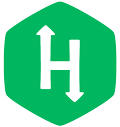
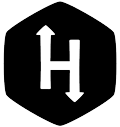
Add all images and shrink

diff --git a/index.html b/index.html
@@ -16,112 +16,33 @@
   </head>
 
   <body>
-    <div class="container" id="home">
-      <nav class="navbar navbar-fixed-top center" role="navigation">
-        <div class="container">
-          <div id="navbar">
-            <ul class="nav navbar-nav">
-              <li><a href="#" data-target="#about">About</a></li>
-              <li><a href="#" data-target="#works">Works</a></li>
-              <li><a href="#" data-target="#contact">Contact</a></li>
-              <li><a href="//www.medium.com/@martincalvert">Blog</a></li>
-            </ul>
-          </div><!--/.nav-collapse -->
-        </div>
-      </nav><!--navbar-->
-    </div>
     <div id="particles-js" class="first sections center container white-content">
       <div class="absolute-center">
         <h1>Martin Calvert</h1>
         <h5>Full Stack Software Engineer & Tech Solutions Designer</h5>
+        <h5><a href="mailto:m@martincalvert.io">m@martincalvert.io</a></h5>
       </div>
-      <div style="margin-top:70vh;" class="absolute-center">
-        <div class="text-editor-wrap">
-    			<div class="text-body">
-            <div class="col-sm-9 col-sm-offset-3">
-    				> I have experience with <span class="typed"></span>
-          </div>
-    			</div>
-    		</div>
-      </div>
-    </div>
-    <div class="white-content skew">
-    </div>
-    <div id="about" class="sections content non-first">
-      <div class="container">
-        <h2 id="aboutss" class="center">About Myself!</h2>
-        <p>
-          I am a software engineer and in no way should that title limit my personal abilities, I am passionate about technology and the connections between them. My other passions in no particular order include golf, basketball, soccer, and video games but are not limited to them as I love any activity where I can compete, I love my family, and I love my wife.
-          Enough about my life and more about what I can offer to an employer. I am knowledgeable and have completed projects in categories such as, but not limited to, web, mobile, database and network development. You can view some of my works on my <a href="#works"> portfolio section</a>.
-          After you take a look at some of my previous works you can contact me through my <a href="mailto:m@martincalvert.io">e-mail</a>.
-          So go ahead take a look around, looking forward to hearing from you!
-          <ul>
-            <li>Born and raised in Southern California</li>
-            <li>Tinkered on computers since I was 10, so technology is a bit more than just a career for me</li>
-            <li>Graduated High School in 2008</li>
-            <li>First job showed me the importance of attention to design details and ignited my passion for software</li>
-            <li>Graduated Cal State San Bernardino in 2014</li>
-            <li>Interned then hired at Disney Consumer Product & Interactive Media</li>
-        </p>
-        <br>
-        To contact me for an employment oppurtunity please use my <a href="mailto:m@martincalvert.io">e-mail</a>.
-        <div class="row" id="abouts">
-          <div class="col-sm-4 text-center">
-             <a style="margin-top:5px;" href="//linkedin.com/pub/martin-calvert/86/972/741/"><img src="assets/img/linkedin.png" width='120' alt="Linkedin Logo"></a>
-          </div>
-          <div class="col-sm-4 text-center">
-            <a style="margin-top:5px;" href="//github.com/martincalvert"><img src="assets/img/github-white.png" alt="Github Logo"></a>
-          </div>
-          <div class="col-sm-4 text-center">
-              <a style="margin-top:5px;" href="//hackerrank.com/martinlcalvert"><img src="assets/img/hackerrank.png" width='120' alt="HackerRank Logo"></a>
-          </div>
+      <div class="row navbar-fixed-bottom" id="abouts">
+        <div style="margin-top:70vh;" class="text-center">
+          <div class="text-editor-wrap">
+      			<div class="text-body">
+              <div class="col-sm-9 col-sm-offset-3">
+      				> I have experience with <span class="typed"></span>
+            </div>
+      			</div>
+      		</div>
         </div>
-      </div>
-    </div>
-    <div class="white-content skew-opp">
-    </div>
-    <div id="works" class="sections white-content last" style="z-index: 111;">
-      <div class="container">
-        <h1 class="text-center">Portfolio</h1>
-        <p>For most of my portfolio work I will point you in the direction of my <a href="//github.com/martincalvert">GitHub</a>. I also have a Stack Overflow and HackerRank. I have done work as a webmaster for many small companies, which included managing their websites, email accounts, databases, and building web apps.
-        At Disney Consumer Product & Interactive Media I have worked on numerous initiatives to improve the in house built CMS which runs on a stack that includes HA, Nginx, Mongo, and Ruby. During college I was the team leader for the majority of group projects I worked on and more than comfortable working as the source of information for a project and can easily provide myself self-motivation.
-        I have worked on a multitude of consulting projects that included building backend web services, mobile applications, and network solutions. You can also catch some of my personal writings on my <a href="//www.medium.com/@martincalvert">blog</a> or on <a href="http://www.writings.fyi">Writings.FYI</a> where my articles are mainly posted.</p>
-        <h3 id="contact">Contacting Me</h2>
-            <p>Please feel free to contact me either through my <a href="mailto:m@martincalvert.io">email</a> or my <a href="http://linkedin.com/pub/martin-calvert/86/972/741/">LinkedIn</a> profile. I will be quick to respond to all legitimate messages. For more informal communications I welcome comments on my articles or even talking to me through my <a href="https://twitter.com/sdla4ever">twitter</a></p>
+        <div class="col-xs-3 text-center">
+           <a style="margin-top:5px;" href="//linkedin.com/pub/martin-calvert/86/972/741/"><img src="assets/img/linkedin-black.png" width='120' alt="Linkedin Logo"></a>
         </div>
-        <div class="row">
-          <div class="col-xs-6 col-sm-3 col-md-2 text-center">
-            <img src="assets/img/ruby-logo.png" height="50" alt = "Ruby Logo"/>
-          </div>
-          <div class="col-xs-6 col-sm-3 col-md-2 text-center">
-            <img src="assets/img/swift-logo.png" height="50" alt = "Swift Logo"/>
-          </div>
-          <div class="col-xs-12 col-md-2 text-center hidden-sm">
-            <img src="assets/img/docker-logo.png" height="50" alt = "Docker Logo"/>
-          </div>
-          <div class="col-md-2 text-right hidden-xs hidden-sm">
-            <img src="assets/img/jquery-logo.png" height="50" alt = "JQuery Logo"/>
-          </div>
-          <div class="col-xs-6 text-center visible-xs">
-            <img src="assets/img/jquery-logo.png" height="50" alt = "JQuery Logo"/>
-          </div>
-          <div class="col-xs-6 col-sm-3 col-md-2 text-center">
-            <img src="assets/img/nginx-logo.png" height="50" alt = "Nginx Logo"/>
-          </div>
-          <div class="col-xs-12 col-sm-3 col-md-2 text-center">
-            <img src="assets/img/mongodb-logo.png" height="50" alt = "MongoDB Logo"/>
-          </div>
+        <div class="col-xs-3 text-center">
+          <a style="margin-top:5px;" href="//github.com/martincalvert"><img src="assets/img/github-black.png" alt="Github Logo"></a>
         </div>
-        <div class="row">
-          <div class="col-sm-4 text-center">
-            <a style="margin-top:5px;" href="//github.com/martincalvert"><img src="assets/img/github-black.png" alt="Github Logo"></a>
-          </div>
-          <div class=" col-sm-4 text-center">
-             <a style="margin-top:5px;" href="//stackoverflow.com/users/1947373/sdla4ever"><img src="assets/img/stack.png" width='120' alt="Stack Overflow Logo"></a>
-          </div>
-          <div class="col-sm-4 text-center">
-              <a style="margin-top:5px;" href="//hackerrank.com/sdla4ever"><img src="assets/img/hackerrank.png" width='120' alt="Stackoverflow Logo"></a>
-          </div>
+        <div class="col-xs-3 text-center">
+            <a style="margin-top:5px;" href="//hackerrank.com/martinlcalvert"><img src="assets/img/hackerrank.png" width='120' alt="HackerRank Logo"></a>
+        </div>
+        <div class="col-xs-3 text-center">
+            <a style="margin-top:5px;" href="//medium.com/@martincalvert"><img src="assets/img/medium.png" width='120' alt="HackerRank Logo"></a>
         </div>
       </div>
     </div>
@@ -159,51 +80,6 @@
             backDelay: 725
           });
       });
-    </script>
-    <script>
-      var menu = false
-      function isElementInViewport(pos) {
-          if (pos > 50){
-            changeNav(false)
-          }else{
-            changeNav(true)
-          };
-      }
-
-      function changeNav(e){
-        if (e == true){
-          $('nav').addClass("nav-clear");
-          $('nav').removeClass("nav-black");
-          menu = false
-        }else{
-          $('nav').removeClass("nav-clear");
-          $('nav').addClass("nav-black");
-          menu = true
-        }
-      }
-
-      function handleChange(){
-          isElementInViewport(window.pageYOffset)
-      }
-
-      (function($) {
-        $.fn.goTo = function() {
-            $('html, body').animate({
-                scrollTop: $(this).offset().top - 50 + 'px'
-            }, 'fast');
-            return this;
-        }
-      })(jQuery);
-
-      $(document).delegate('li a', 'click', function(e){
-        if($(this).data()['target'] != null){
-          $($(this).data()['target']).goTo()
-          e.preventDefault();
-        }
-      })
-
-      //jQuery
-      $(window).on('DOMContentLoaded load resize scroll', handleChange);
     </script>
   </body>
 </html>
